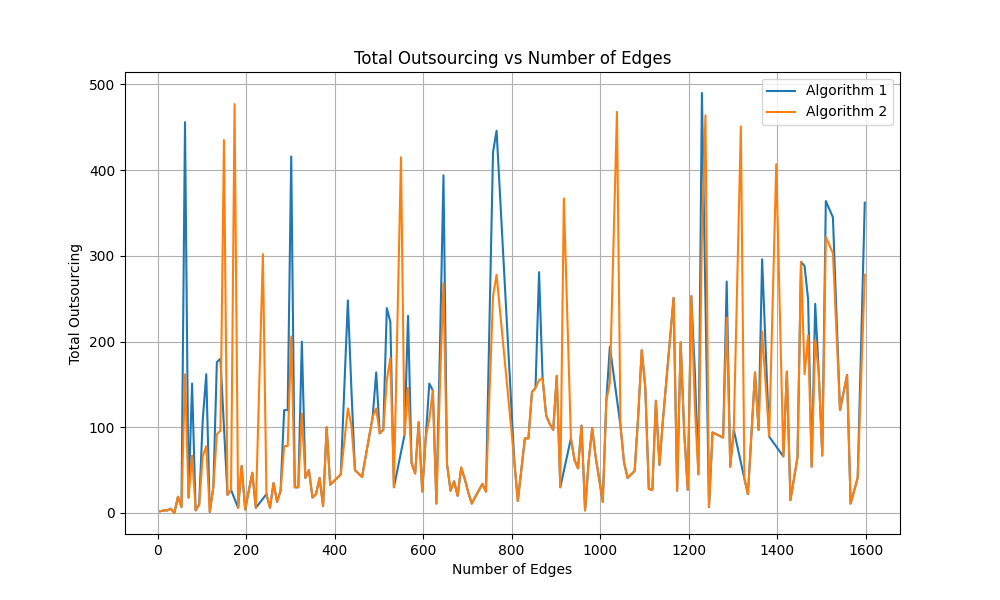
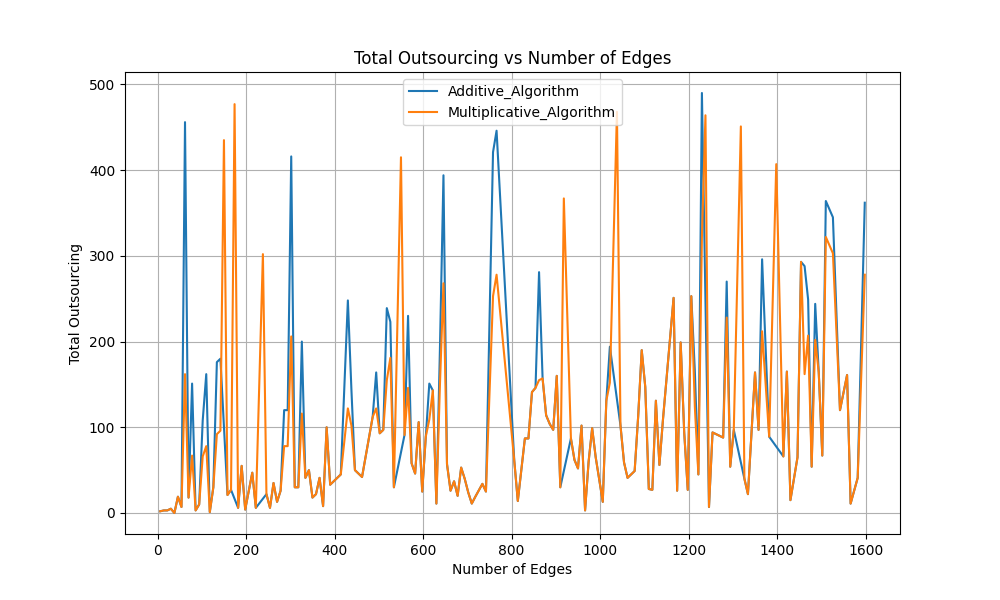
Changed Labels

Changed region(s): [[0.403, 0.12, 0.62, 0.21], [0.775, 0.12, 0.899, 0.21]]

diff --git a/analysis.py b/analysis.py
@@ -1,0 +1,113 @@
+import pandas as pd
+import matplotlib.pyplot as plt
+import os
+
+# Load datasets
+df_algo1 = pd.read_csv("results_additive_increment.csv")
+df_algo2 = pd.read_csv("results_multiplicative_increment.csv")
+
+# Create a folder to save plots if it doesn't exist
+output_folder = "plots"
+if not os.path.exists(output_folder):
+    os.makedirs(output_folder)
+
+# Function to plot comparison graphs with PCN configurations as x-axis
+def plot_comparison(df1, df2, x_column, y_column, x_label, y_label, title, filename):
+    plt.figure(figsize=(10, 6))
+    plt.plot(df1[x_column], df1[y_column], label='Additive_Algorithm')
+    plt.plot(df2[x_column], df2[y_column], label='Multiplicative_Algorithm')
+    plt.xlabel(x_label)
+    plt.ylabel(y_label)
+    plt.title(title)
+    plt.legend()
+    plt.grid(True)
+    plt.savefig(os.path.join(output_folder, filename))
+    plt.show()
+
+# Function to plot scatter plot
+def scatter_plot(df1, df2, x_column, y_column, x_label, y_label, title, filename):
+    plt.figure(figsize=(10, 6))
+    plt.scatter(df1[x_column], df1[y_column], label='Additive_Algorithm')
+    plt.scatter(df2[x_column], df2[y_column], label='Multiplicative_Algorithm')
+    plt.xlabel(x_label)
+    plt.ylabel(y_label)
+    plt.title(title)
+    plt.legend()
+    plt.grid(True)
+    plt.savefig(os.path.join(output_folder, filename))
+    plt.show()
+
+# Function to plot bar plot
+def bar_plot(df1, df2, x_column, y_column, x_label, y_label, title, filename):
+    plt.figure(figsize=(10, 6))
+    bar_width = 0.35
+    index = sorted(list(set(df_algo1[x_column].unique()) | set(df_algo2[x_column].unique())))
+    plt.bar(index, df1.groupby(x_column)[y_column].mean().reindex(index), bar_width, label='Additive_Algorithm')
+    plt.bar([i + bar_width for i in index], df2.groupby(x_column)[y_column].mean().reindex(index), bar_width, label='Multiplicative_Algorithm')
+    plt.xlabel(x_label)
+    plt.ylabel(y_label)
+    plt.title(title)
+    plt.legend()
+    plt.grid(True)
+    plt.savefig(os.path.join(output_folder, filename))
+    plt.show()
+
+# Function to plot histogram
+def histogram_plot(df1, df2, column, x_label, y_label, title, filename):
+    plt.figure(figsize=(10, 6))
+    plt.hist(df1[column], bins=20, alpha=0.5, label='Additive_Algorithm', color='blue')
+    plt.hist(df2[column], bins=20, alpha=0.5, label='Multiplicative_Algorithm', color='orange')
+    plt.xlabel(x_label)
+    plt.ylabel(y_label)
+    plt.title(title)
+    plt.legend()
+    plt.grid(True)
+    plt.savefig(os.path.join(output_folder, filename))
+    plt.show()
+
+# Function to plot box plot
+def box_plot(df1, df2, x_column, y_column, x_label, y_label, title, filename):
+    plt.figure(figsize=(10, 6))
+    plt.boxplot([df1[y_column], df2[y_column]], labels=['Additive_Algorithm', 'Multiplicative_Algorithm'])
+    plt.xlabel(x_label)
+    plt.ylabel(y_label)
+    plt.title(title)
+    plt.grid(True)
+    plt.savefig(os.path.join(output_folder, filename))
+    plt.show()
+
+# Compare total bidding vs. number of nodes
+plot_comparison(df_algo1, df_algo2, 'num_nodes', 'time', 'Number of Nodes', 'Time', 'Time vs Number of Nodes', 'time_vs_number_of_nodes.png')
+
+# Compare total bidding vs. number of edges
+plot_comparison(df_algo1, df_algo2, 'num_edges', 'time', 'Number of Edges', 'Time', 'Time vs Number of Edges', 'time_vs_number_of_edges.png')
+
+# Compare total bidding vs. number of nodes
+plot_comparison(df_algo1, df_algo2, 'num_nodes', 'total_bidding', 'Number of Nodes', 'Total Bidding', 'Total Bidding vs Number of Nodes', 'total_bidding_vs_number_of_nodes.png')
+
+# Compare total bidding vs. number of edges
+plot_comparison(df_algo1, df_algo2, 'num_edges', 'total_bidding', 'Number of Edges', 'Total Bidding', 'Total Bidding vs Number of Edges', 'total_bidding_vs_number_of_edges.png')
+
+# Compare total outsourcing vs. number of nodes
+plot_comparison(df_algo1, df_algo2, 'num_nodes', 'total_outsourcing', 'Number of Nodes', 'Total Outsourcing', 'Total Outsourcing vs Number of Nodes', 'total_outsourcing_vs_number_of_nodes.png')
+
+# Compare total outsourcing vs. number of edges
+plot_comparison(df_algo1, df_algo2, 'num_edges', 'total_outsourcing', 'Number of Edges', 'Total Outsourcing', 'Total Outsourcing vs Number of Edges', 'total_outsourcing_vs_number_of_edges.png')
+
+# Compare probability updates vs. number of nodes
+plot_comparison(df_algo1, df_algo2, 'num_nodes', 'propability_updates', 'Number of Nodes', 'Probability Updates', 'Probability Updates vs Number of Nodes', 'probability_updates_vs_number_of_nodes.png')
+
+# Compare probability updates vs. number of edges
+plot_comparison(df_algo1, df_algo2, 'num_edges', 'propability_updates', 'Number of Edges', 'Probability Updates', 'Probability Updates vs Number of Edges', 'probability_updates_vs_number_of_edges.png')
+
+# Scatter plot: Total Bidding vs. Total Outsourcing
+scatter_plot(df_algo1, df_algo2, 'total_bidding', 'total_outsourcing', 'Total Bidding', 'Total Outsourcing', 'Total Bidding vs Total Outsourcing', 'total_bidding_vs_total_outsourcing.png')
+
+# Bar plot: Average Total Bidding by Number of Nodes
+bar_plot(df_algo1, df_algo2, 'num_nodes', 'total_bidding', 'Number of Nodes', 'Average Total Bidding', 'Average Total Bidding by Number of Nodes', 'average_total_bidding_by_num_nodes.png')
+
+# Histogram: Distribution of Probability Updates
+histogram_plot(df_algo1, df_algo2, 'propability_updates', 'Probability Updates', 'Frequency', 'Distribution of Probability Updates', 'distribution_of_probability_updates.png')
+
+# Box plot: Failed Transactions Distribution
+box_plot(df_algo1, df_algo2, None, 'failed_transactions', None, 'Failed Transactions', 'Failed Transactions Distribution', 'failed_transactions_distribution.png')
